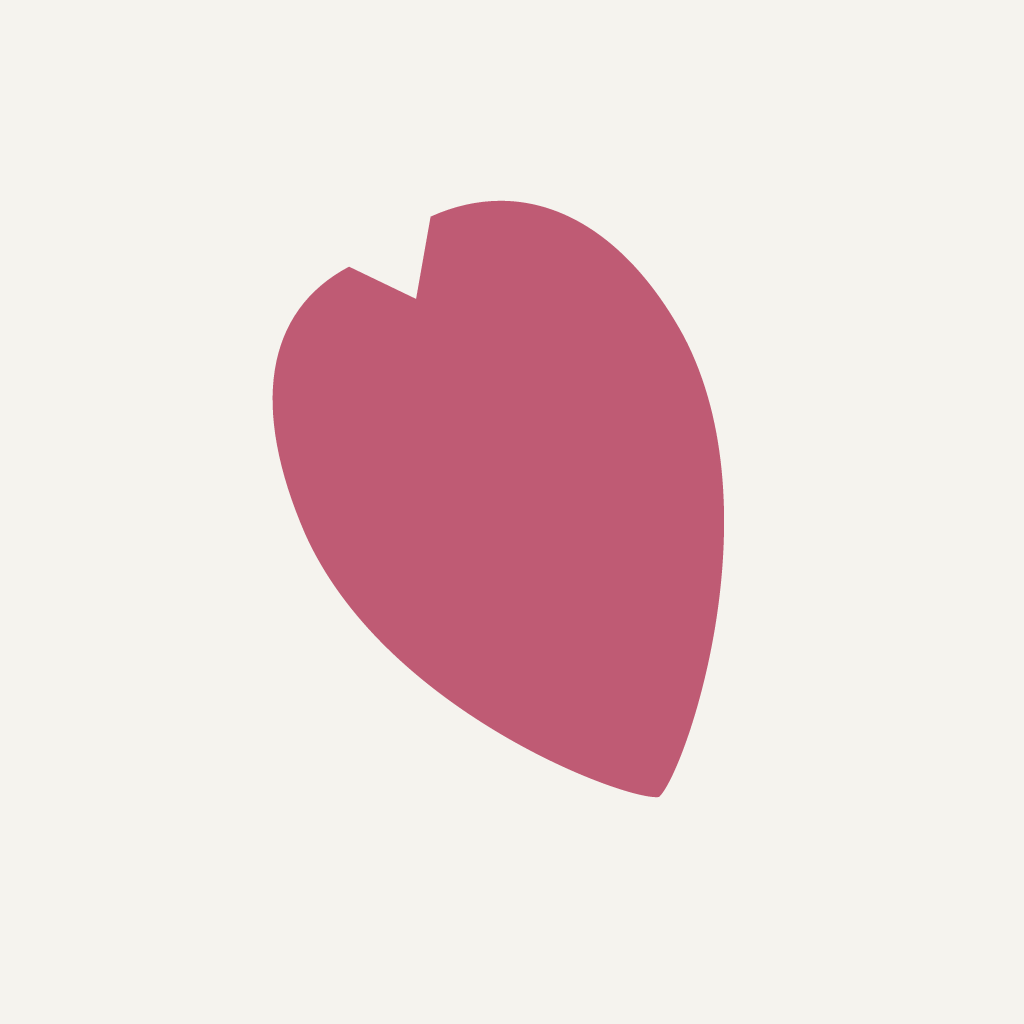
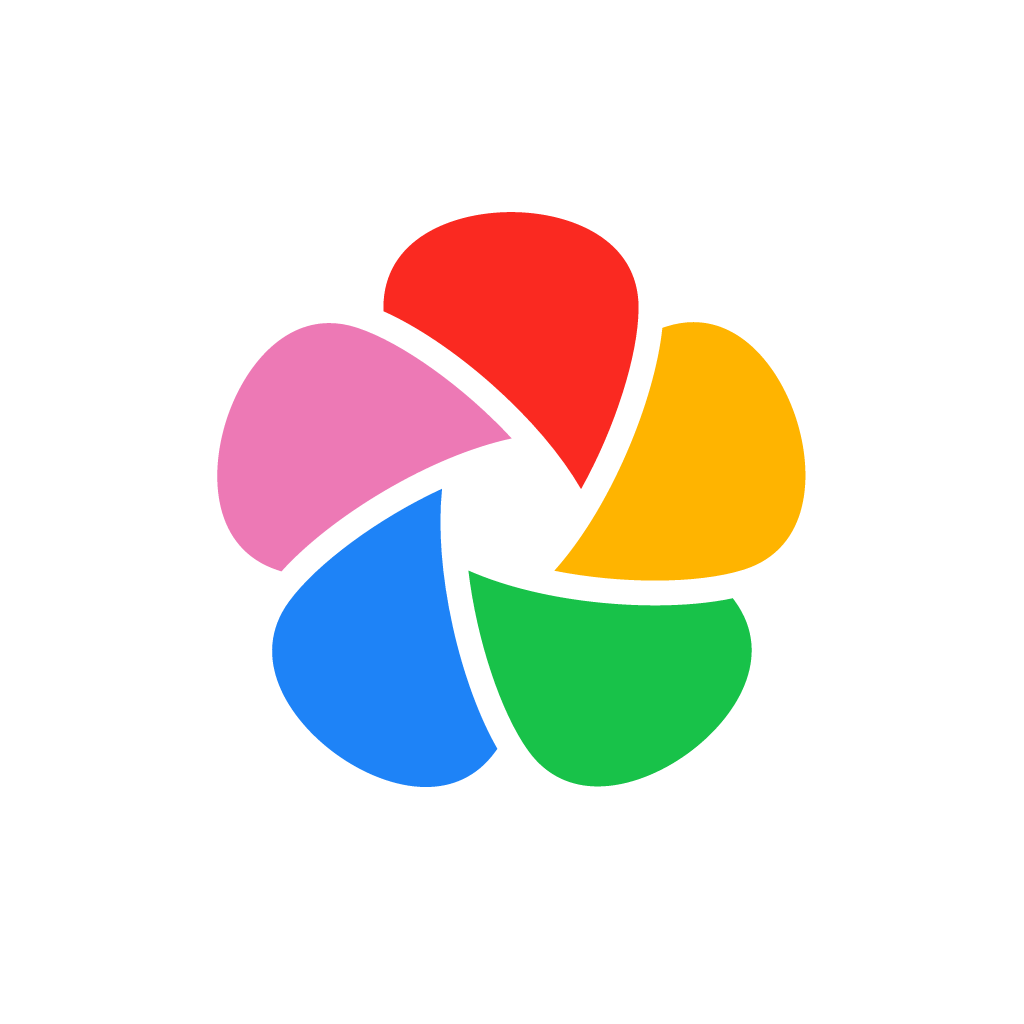
kioku: Immich's pinwheel as the mark, in place of the sakura petal
The owner's choice: Immich's own pinwheel, in its five colours, wherever Kioku's mark stood. Where only a symbol fits
(the tab and app icons, the bar's icon, the login card, the loader) it is the pinwheel alone; where the name is
written out (the wide bar, a shared album's and link's page, the admin bar, the link preview) the pinwheel stands
before the word kioku, its i dotted again. The paths and colours are @immich/ui's immich-logo.svg, unchanged, so a
dialog's header now shows the same mark as the bar.

The loader is the still pinwheel, which LoadingSpinner and the boot screen turn as upstream's do: apply-kioku.sh no
longer takes their spin out, and kioku.mjs now checks that both turn. The tab icons stand on a clear ground, as
upstream's; the app icons on white. The memory player's own home-screen icon follows. brand.json, the README and
DESIGN.md say so, and the keep list's entry for @immich/ui's logo now says what it does: every modal draws it in its
header unless given icon={false}.

Claude-Session: https://claude.ai/code/session_016mqLPHrbsEPETvwQA2i1jk

Changed region(s): [[0.1875, 0.1875, 0.8125, 0.7812]]

diff --git a/DESIGN.md b/DESIGN.md
@@ -18,8 +18,12 @@ colors:
   public-memory-ink: "#f5f3ee"
   public-memory-hover: "#d8d6d1"
   public-memory-boundary: "#777"
-  # Kioku's mark, one sakura petal (branding/kioku): the same pink on both faces, the bar's one colour whatever the theme
-  mark-petal: "#bf5b74"
+  # Kioku's mark, Immich's pinwheel (branding/kioku): its own five colours on both faces, whatever the theme
+  mark-pinwheel-red: "#fa2921"
+  mark-pinwheel-pink: "#ed79b5"
+  mark-pinwheel-yellow: "#ffb400"
+  mark-pinwheel-blue: "#1e83f7"
+  mark-pinwheel-green: "#18c249"
 typography:
   display:
     fontFamily: "'Bricolage Grotesque Variable', 'Mona Sans', ui-sans-serif, sans-serif"
@@ -191,7 +195,7 @@ The palette is the active Omarchy theme, read at runtime; this system defines ro
 - **Danger** (`--ws-danger`, `omarchy-world.css`; 2026-10-18): what trashes or deletes, as words on the ground (a menu's Delete, an import's failed count, an expired link) or as a fill under the surface's text (Duplicates' and Bank slips' Move to Trash). The hook gives no red, so the role is @immich/ui's danger red taken toward the theme's own ink (the light face's deep step at 80%, the dark face's lighter step at 65%), as far as holds AA on the theme's ground and on a menu's glass over a mid-grey photo: at least 4.6:1 over all of the owner's themes, in both faces (sakura-ancient: 7.9:1 light, 8.8:1 dark). A menu's destructive row inverts in it when pointed at (the danger fill, the words and the hint in the surface's colour), the same pair as at rest; a red tint under red words had taken the row to 2.2:1. A fill hovered goes further toward the ink, which only adds contrast. Before, the menus drew a fixed red (`oklch(0.66 0.19 25)`, 2.6:1 on the light ground) and Bank slips a fixed `#c62828` (3.1:1 under the dark face's text).
 
 ### Named Rules
-**The Desktop Decides Rule.** No colour literal enters the build except the on-photo scrims (the caption's, a sheet's over the photos), a QR code's black on white, the standalone public memory viewer's fixed neutral roles (`public-memory-*`) and the mark's petal (`mark-petal`, Kioku's `#bf5b74`, drawn by its own files: The Mark). A library's own colour is data, not a literal: its `kioku-library.json` holds it, and only its chip and its square in the switcher draw it (Libraries). New authenticated surfaces take roles (`--immich-ui-*`, `--ws-accent`, `--ws-hairline`), never hex values from the theme you happen to be looking at. The public viewer's exception does not change the owner's theme or the private sharing sheet.
+**The Desktop Decides Rule.** No colour literal enters the build except the on-photo scrims (the caption's, a sheet's over the photos), a QR code's black on white, the standalone public memory viewer's fixed neutral roles (`public-memory-*`) and the mark's pinwheel (`mark-pinwheel-*`, Immich's five colours, drawn by its own files: The Mark). A library's own colour is data, not a literal: its `kioku-library.json` holds it, and only its chip and its square in the switcher draw it (Libraries). New authenticated surfaces take roles (`--immich-ui-*`, `--ws-accent`, `--ws-hairline`), never hex values from the theme you happen to be looking at. The public viewer's exception does not change the owner's theme or the private sharing sheet.
 
 **The Active Border Rule.** The accent marks focus and only focus. Selection of a mode, a year or a nav item is shown by inversion (ink fill, surface text), never by accent fill. Upstream's own brand colour follows the rule at the token: Tailwind's `--color-primary` (in `omarchy-world.css`) and the legacy `immich-primary` / `immich-dark-primary` pair (at the end of `app.css`'s theme, which defines them after its imports) are ink, so stock and @immich/ui markup (titles, icons, chips, meters, filled buttons) take ink and inversion with no per-component override, and text that upstream set white or black on such a fill takes the surface. The raw `--immich-ui-primary-*` ramp keeps the theme's accent for `--ws-accent` (2026-10-15).
 
@@ -423,15 +427,15 @@ Every empty state stands on the page's gutter, left-aligned under the bar's titl
 
 ### Ink (the zen touches, 2026-10-23)
 The owner's ask: "japanese zen inspired design elements, not major redesign, just minor tweaks". One brush stroke as a shape, filled with the ink of wherever it stands, so every theme repaints it in both faces (`--ws-ink-enso` and `--ws-ink-ichi` in `omarchy-world.css`: filled outlines of a stroke that lands heavy and lifts thin; no brush font, no texture, no characters).
-- **The small spinners** draw the ensō, the open circle in one breath, as the page loader (Kioku's mark, `branding/kioku/assets/loader.svg`) lays its petal down in one stroke: @immich/ui's spinner (a button at work, such as Sign in or a dialog's Save, a face, the storage line, a few dialogs), a grey ring and an arc turning, keeps its markup and takes the stroke by CSS alone, its paths hidden under a mask of the ensō and a conic sweep (`@property --ws-ink-sweep`) that reveals it from where the brush lands (lower left) in 1.4 s, its leading edge feathered like wet ink, held, then lifted, 2.4 s a cycle, never turning, in the colour of the words around it. With reduced motion it is drawn whole and only breathes (opacity 1 to 0.4).
+- **The small spinners** draw the ensō, the open circle in one breath (the page loader is Kioku's mark, `branding/kioku/assets/loader.svg`, which turns): @immich/ui's spinner (a button at work, such as Sign in or a dialog's Save, a face, the storage line, a few dialogs), a grey ring and an arc turning, keeps its markup and takes the stroke by CSS alone, its paths hidden under a mask of the ensō and a conic sweep (`@property --ws-ink-sweep`) that reveals it from where the brush lands (lower left) in 1.4 s, its leading edge feathered like wet ink, held, then lifted, 2.4 s a cycle, never turning, in the colour of the words around it. With reduced motion it is drawn whole and only breathes (opacity 1 to 0.4).
 - **The first paint** (`app.html`) stands on the theme's own ground (custom.css, read before the first paint), with black and white only where the theme hook has not run; it was black or white whatever the theme, under the loader's `<picture>`.
 - **Where it begins** (`components/timeline/TimelineBeginning.svelte`): Photos' own timeline, unfiltered, ends where the archive begins, and so, since 2026-10-24, do an album's, a person's and a Space's own timelines where theirs begin (an album or a person inside a Space too), each while it is browsed unfiltered: never with a filter on, in the photo picker over an album or a Space, or while a cover is chosen. The words stay: "It all begins here" says where a trip's album, a person's photos or a Space begin as well as it says where the archive does. Under its oldest photo, a breath of room (3rem), the first stroke (一 drawn as a stroke, 3.5rem, the ink at 60%, no reader hears it) and one quiet line: "It all begins here" in muted meta and that photo's day in data type, in the reader's language ("July 3, 1977", a `<time>`). It shows once the timeline's last month is loaded, only where the timeline runs newest first by the day photos were taken, and the timeline's leadout takes its height (60px before), so the scroll ends under it, clear of a phone's floating Years · Months · All. One element at the end, so a timeline of any length costs nothing more. Structural departure: `Timeline` takes `beginning` and draws it in its leadout; Photos, both album pages, both person pages and a Space's Photos pass it.
 - **The colour passes** (`MemoryFilm`, the film's end on a screen and on the shared film's page; Memories, The end): as the name comes back, the last photo's colour goes out of it over 3.2 s, starting 0.6 s after the end, to 60% grey, much of it left, as a memory settles (the owner chose 60% over 85%); the next memory's small photo keeps its own, and Start over brings the colour back at once. Grey keeps the photo's light, so the end's words keep their contrast: measured from pixels on the grey end card against the brightest twentieth behind each line, every line holds AA on the phone, the laptop and the AORUS, the tightest the phone's date at 6.9:1 and the name at 11.6:1 or more. Across the room a film hands on to the next and never stops here. Reduced motion: the grey comes at once.
 - **Room breathes between films** (`components/memories/film/film-breath.ts`, `MemoryFilm`'s hand-on; Room, One after another): when a film in the chain ends by itself, its picture and music go to black more slowly (0.9 s, where they took 0.65 s) and the room is held in black a moment (1.2 s) before the next film's title card comes up out of it, the pause between two films; a person moving on (↑, ↓, Up next, a remote's keys, → on the last photo) is answered as fast as before, 0.65 s. Measured in the dev server: the next film takes over 2.1 s after a film that ended by itself begins to go, and 0.66 s after a press (0.66 s for both before). Reduced motion: the black comes at once (0.15 s), and the held black stays, which is stillness, not motion. The film says which it is doing (`data-leaving`: `breath` or `cut`).
-- **The sign-in page** (`AuthPageLayout`, for every page it lays out: sign in, register, change password, the PIN prompt, maintenance): the card stands on the theme's bare ground, the room around it left empty, where upstream blurred the mark 200px into a cloud behind it (Noodle's five colours, then Kioku's mark as a smudge). The card keeps its frame and its mark, Kioku's petal at the card's head, still (the build copy's `<Logo variant="icon" size="giant" />`, the mark's ground transparent), and floats as the house's popups do (2026-10-24): the popup shadow and hairline (Shadow Vocabulary), where it kept a modal's heavier shadow, a grey pool 64px deep under it on the light face. The cloud stays in the markup for a page that asks for it (`withBackdrop`), so the build's rules for this file still find their text.
+- **The sign-in page** (`AuthPageLayout`, for every page it lays out: sign in, register, change password, the PIN prompt, maintenance): the card stands on the theme's bare ground, the room around it left empty, where upstream blurred the mark 200px into a cloud behind it (Noodle's five colours, then Kioku's mark as a smudge). The card keeps its frame and its mark, Kioku's pinwheel at the card's head, still (the build copy's `<Logo variant="icon" size="giant" />`, the mark's ground transparent), and floats as the house's popups do (2026-10-24): the popup shadow and hairline (Shadow Vocabulary), where it kept a modal's heavier shadow, a grey pool 64px deep under it on the light face. The cloud stays in the markup for a page that asks for it (`withBackdrop`), so the build's rules for this file still find their text.
 
-### The Mark (Kioku, 2026-10-24)
-One sakura petal in `#bf5b74` (`mark-petal`), the owner's choice over 記 in ink: the same pink on the light and the dark face, the one colour the bar carries whatever the theme. Where the name is written, the word is kioku in lowercase with the petal as the dot of its i: a wide bar whose page leaves its middle empty (`OmarchyBar`; with a page's title there, the petal alone), a shared album's and a shared link's page, the admin bar. The bar draws them in two layers (`Logo`'s `ink` mode): an ink layer, a mask over the colour of the words around it that follows the theme, under a colour layer drawn as it is. The petal has no ink, so the bar's mark is the petal alone, and the word takes the theme's ink with its dot pink. The loader lays the petal down in one stroke, then lets it go, and never turns; with reduced motion it lies still. The sign-in card shows the petal still, the tab and app icons on a paper tile. The files are Kioku's, put in at build time from `branding/kioku/assets/` (README there); the source's layers are the light logo and an empty colour, so an unbranded build draws its mark as before.
+### The Mark (Kioku, 2026-11-23)
+Immich's pinwheel in its own five colours (`mark-pinwheel-*`), the owner's choice over the sakura petal (2026-10-24 to 2026-11-23), which had replaced 記 in ink: the same on the light and the dark face, whatever the theme, and the same mark @immich/ui draws in a dialog's header. Where the name is written, the pinwheel stands before the word kioku in lowercase: a wide bar whose page leaves its middle empty (`OmarchyBar`; with a page's title there, the pinwheel alone), a shared album's and a shared link's page, the admin bar. The bar draws them in two layers (`Logo`'s `ink` mode): an ink layer, a mask over the colour of the words around it that follows the theme, under a colour layer drawn as it is. The pinwheel has no ink, so the bar's mark is the pinwheel alone, and the word takes the theme's ink. The loader is the still pinwheel, which `LoadingSpinner` and the boot screen turn as upstream's do. The sign-in card shows it still, the tab icons on a clear ground and the app icons on white. The files are Kioku's, put in at build time from `branding/kioku/assets/` (README there); the source's layers are the light logo and an empty colour, so an unbranded build draws its mark as before.
 
 ### Sign-in pages
 Login, register, change password, the PIN prompt and maintenance (`AuthPageLayout`) stand one centred card on the theme's bare ground (Ink: the sign-in page; upstream's blurred logo behind it is gone), and the card is a window on it: the theme's surface in one hairline frame with the popup shadow (2026-10-24; the modal's heavier shadow before), its fields the modals' (a faint fill, a hairline, the accent when focused; `.ws-auth-card`, 2026-10-16). Before, it was a fixed grey of its own with grey slab fields and an ink focus ring.

diff --git a/branding/kioku/README.md b/branding/kioku/README.md
@@ -35,13 +35,12 @@ A second run changes nothing.
   and the shared memory player's tab (`Kioku · Memory`, then `<memory> · Kioku`).
 - **Help › About**, the owner's section beside the projects' links, says "Kioku is built on Noodle Gallery and
   Immich" (`about_credit`, in the ten maintained languages): the AGPL credit stays in front of the owner.
-- **The icons, logos and link preview**: the mark, one sakura petal in `#bf5b74` (the bar's one colour), and where
-  the name is written the word kioku with the petal as the dot of its i, from `assets/` (below). The open-in-app banner keeps
-  the phone app's own icon (`noodle-app-icon-180.png`, from Noodle's iOS launcher icon), since it offers the phone app.
-- **The loader lays the petal down** in one stroke, so it no longer spins as well:
-  `LoadingSpinner` loses its `animate-spin` and the boot screen its `loadspin`. The login card shows the still mark
-  rather than the loader, which would lay the petal down again every few seconds there. A `GALLERY_BRAND=noodle` build keeps
-  Noodle's spinning mark, and the source keeps the spin its specs check.
+- **The icons, logos and link preview**: the mark, Immich's pinwheel in its own five colours (the owner's choice,
+  2026-11-23, over the sakura petal that came before it), and where the name is written the pinwheel and the word kioku,
+  from `assets/` (below). The open-in-app banner keeps the phone app's own icon (`noodle-app-icon-180.png`, from Noodle's
+  iOS launcher icon), since it offers the phone app.
+- **The loader is the still pinwheel**, which `LoadingSpinner` and the boot screen turn as upstream's do. The login card
+  shows the still mark rather than the turning loader.
 
 ## What stays Noodle Gallery or Immich, and why
 
@@ -57,8 +56,9 @@ A second run changes nothing.
   Noodle Gallery's.
 - **Support and purchase** (`keep.purchase`) and **credits** (`keep.credits`: the project's documentation and
   resources, the About credit), and `security.txt`, which sends security reports to Noodle.
-- **@immich/ui's own logo**, which only a modal given `icon={true}` draws, and none is. It lives in the image's
-  installed packages, out of a source rewrite's reach.
+- **@immich/ui's own logo**, which every modal draws in its header unless given `icon={false}`: Immich's pinwheel, the
+  same as Kioku's mark, under its own alt text ("Immich logo"). It lives in the image's installed packages, out of a
+  source rewrite's reach.
 - **Languages beyond the ten maintained** (en, de, fr, it, nl, pl, es, ru, zh_Hans, zh_Hant) get the name swapped as
   a word; a case ending or an article glued to it (Hungarian, Turkish, Catalan) is as `apply-branding.sh` left it.
 
@@ -123,18 +123,18 @@ beats the resized one. `favicon.ico` ships as drawn, or is assembled from the 16
 
 | Source                                     | Becomes                                                                      |
 | ------------------------------------------ | ---------------------------------------------------------------------------- |
-| `favicon.png` (256 px, an opaque paper tile) | `favicon.png`, `favicon-{256,144,96,48,32,24,16}.png`                      |
+| `favicon.png` (256 px, a clear ground)     | `favicon.png`, `favicon-{256,144,96,48,32,24,16}.png`                        |
 | `favicon-{48,32,24,16}.png` (optional)     | the small sizes, drawn for their pixels; 24 px is new with Kioku             |
 | `favicon.ico` (optional)                   | `favicon.ico`                                                                |
 | `app-icon.png` (opaque, 1024 px, maskable) | `manifest-icon-{512,192}.maskable.png`, `apple-icon-180.png`                 |
 | `apple-icon-180.png` (optional)            | `apple-icon-180.png`                                                         |
 | `feature-panel.png` (1200 × 630)           | the link preview of a shared link without a photo of its own                 |
-| `logo-mark.svg`, `logo-mark-dark.svg`      | `gallery-logo-mark{,-dark}.svg`: the petal, still and pink on both faces (the login card and its backdrop, the icon-sized logos) |
-| `loader.svg`, `loader-dark.svg`            | `gallery-loader{,-dark}.svg`: the petal laid down in one stroke while a page loads, and on the boot screen |
-| `logo-inline-{light,dark}.svg`             | `gallery-logo-inline-{light,dark}.svg`: the word kioku, the petal the dot of its i (a shared album's and link's page, the admin bar) |
-| `mark-ink.svg`, `mark-colour.svg` (optional) | `gallery-logo-mark-{ink,colour}.svg`: the bar's mark in two layers, the ink a mask in the theme's ink (the whole of `logo-mark.svg` unless drawn), the colour drawn over it as it is (none unless drawn). Kioku's ink is empty and its colour the petal |
-| `inline-ink.svg`, `inline-colour.svg` (optional) | `gallery-logo-inline-{ink,colour}.svg`: the bar's wordmark in the same two layers (the ink from `logo-inline-light.svg` unless drawn): kioku undotted in ink, the petal its dot |
-| `logo-stacked.svg`, `logo-stacked-dark.svg` | `gallery-logo-stacked{,-dark}.svg`: the word in the stacked lockup's box     |
+| `logo-mark.svg`, `logo-mark-dark.svg`      | `gallery-logo-mark{,-dark}.svg`: the pinwheel, still and alike on both faces (the login card and its backdrop, the icon-sized logos) |
+| `loader.svg`, `loader-dark.svg`            | `gallery-loader{,-dark}.svg`: the pinwheel, which the app turns while a page loads, and on the boot screen |
+| `logo-inline-{light,dark}.svg`             | `gallery-logo-inline-{light,dark}.svg`: the pinwheel and the word kioku (a shared album's and link's page, the admin bar) |
+| `mark-ink.svg`, `mark-colour.svg` (optional) | `gallery-logo-mark-{ink,colour}.svg`: the bar's mark in two layers, the ink a mask in the theme's ink (the whole of `logo-mark.svg` unless drawn), the colour drawn over it as it is (none unless drawn). Kioku's ink is empty and its colour the pinwheel |
+| `inline-ink.svg`, `inline-colour.svg` (optional) | `gallery-logo-inline-{ink,colour}.svg`: the bar's wordmark in the same two layers (the ink from `logo-inline-light.svg` unless drawn): the word in ink, the pinwheel before it in its colours |
+| `logo-stacked.svg`, `logo-stacked-dark.svg` | `gallery-logo-stacked{,-dark}.svg`: the pinwheel over the word in the stacked lockup's box |
 
 ## On the desktop, by hand
 
